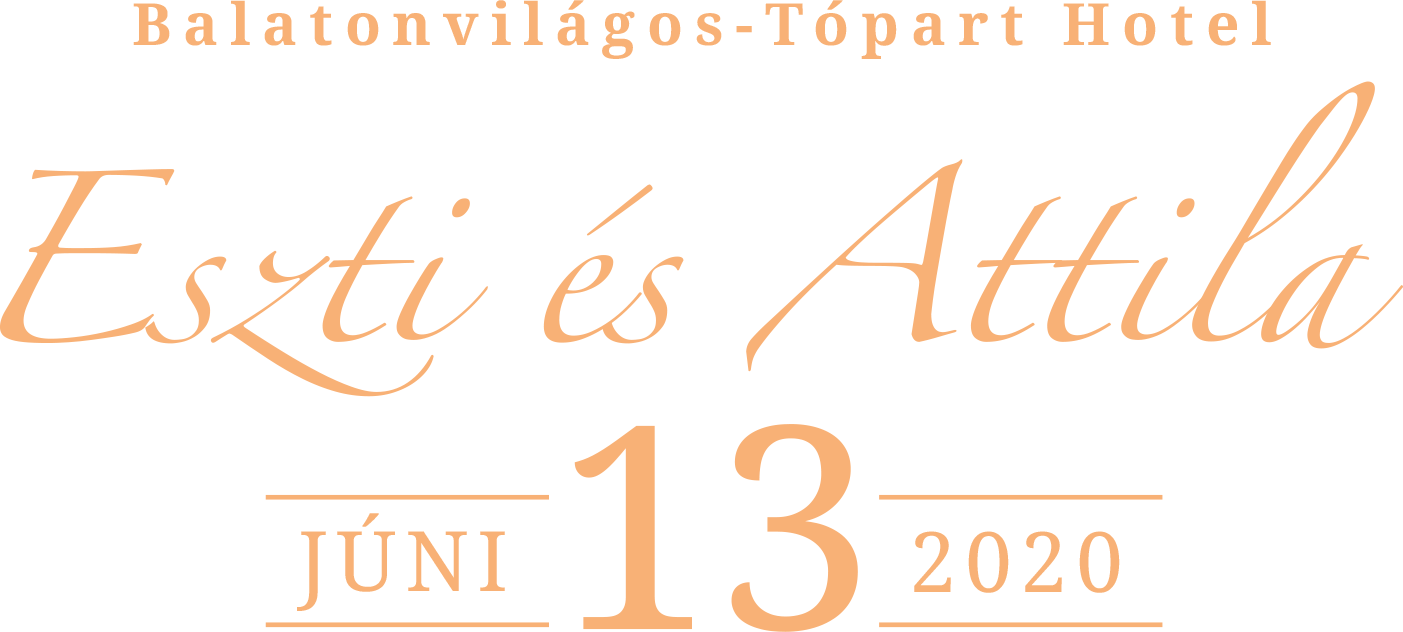
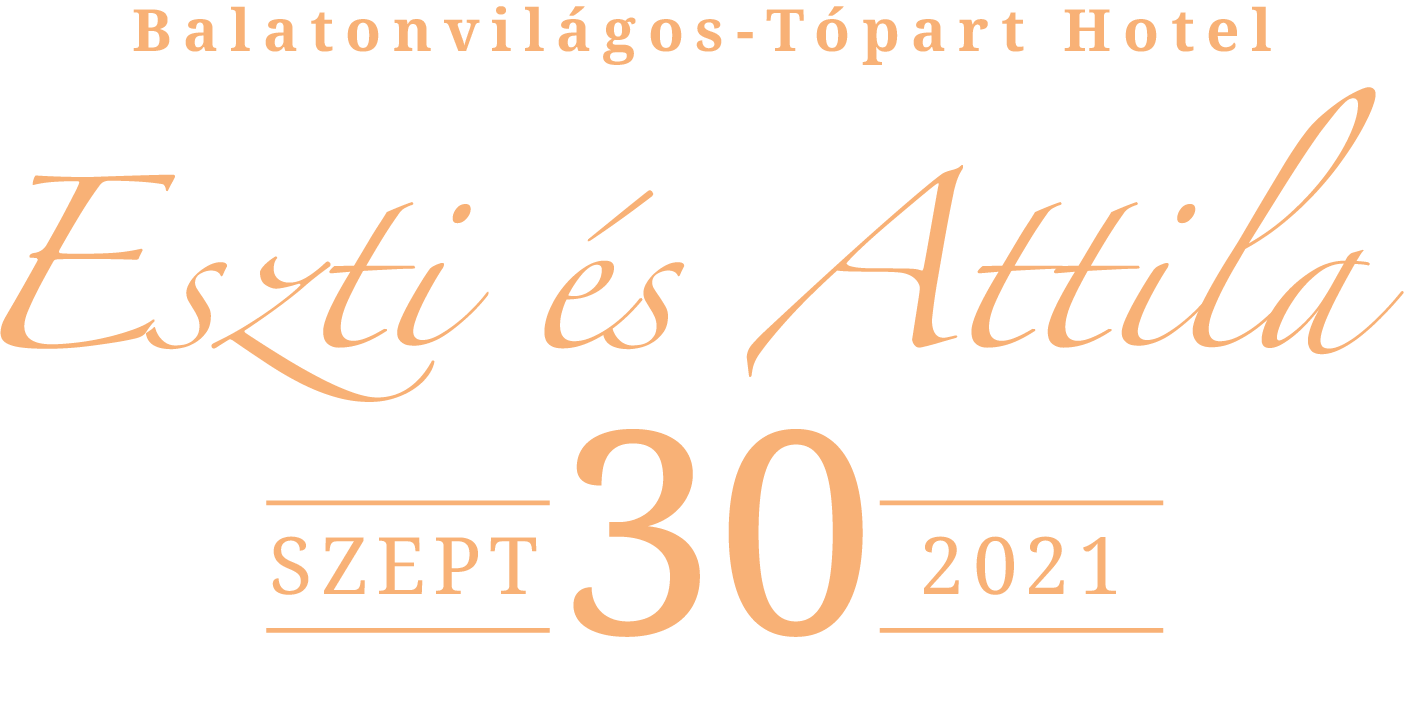
Update dates

diff --git a/index.html b/index.html
@@ -38,7 +38,7 @@
 						<div class="display-tc animate-box" data-animate-effect="fadeIn">
                             <div class="row">
                                 <div class="col-md-8 col-md-offset-2 text-center">
-                                    <img src="images/header.png" alt=" Eszter és Attila, 2020. június 13., Balatonvilágos - Tópart Hotel" class="img-responsive">
+                                    <img src="images/header.png" alt=" Eszter és Attila, 2021. szeptember 30., Balatonvilágos - Tópart Hotel" class="img-responsive">
                                 </div>
                             </div>
 							<p><div class="simply-countdown simply-countdown-one"></div></p>
@@ -56,7 +56,7 @@
 				<div class="col-md-8 col-md-offset-2 text-center fh5co-heading animate-box">
 					<h2>Szia!</h2>
                     <p>Úgy döntöttünk, hogy a következő évtizedeket mindenképpen egymás mellett kívánjuk eltölteni mint férj és feleség. 😊</p>
-                    <p>Szeretnénk, ha szerelmünk megpecsételésének Te is tanúja lennél, ezért szeretettel meghívunk június 13-án a Balaton partján tartandó esküvőnkre.</p>
+                    <p>Szeretnénk, ha szerelmünk megpecsételésének Te is tanúja lennél, ezért szeretettel meghívunk szeptember 30-án a Balaton partján tartandó esküvőnkre.</p>
                     <p>Kérünk jelezd vissza, hogy el tudsz jönni a lentebb található kérdőív kitöltésével.</p>
 				</div>
 			</div>
@@ -101,7 +101,7 @@
             <div class="row">
                 <div class="col-md-8 col-md-offset-2 text-center fh5co-heading animate-box">
                     <h2>Időpont</h2>
-                    <p><a href="resources/wedding.ics">2020. június 13., szombat 16:00</a></p>
+                    <p><a href="resources/wedding.ics">2021. szeptember 30., csütörtök 16:00</a></p>
                 </div>
             </div>
         </div>
@@ -124,7 +124,7 @@
 			<div class="row copyright">
 				<div class="col-md-12 text-center">
 					<p>
-						<small class="block">Copyright &copy; 2019 Attila Nemet.</small>
+						<small class="block">Copyright &copy; 2021 Attila Nemet.</small>
 					</p>
 				</div>
 			</div>
@@ -161,7 +161,7 @@
     <script src="js/simplyCountdown.js"></script>
 
 	<script>
-    var d = new Date(1592064000000);
+    var d = new Date(1633010400000);
 
     simplyCountdown('.simply-countdown-one', {
         year: d.getFullYear(),

diff --git a/index_en.html b/index_en.html
@@ -38,7 +38,7 @@
 						<div class="display-tc animate-box" data-animate-effect="fadeIn">
                             <div class="row">
                                 <div class="col-md-8 col-md-offset-2 text-center">
-                                    <img src="images/header.png" alt=" Eszter és Attila, 2020. június 13., Balatonvilágos - Tópart Hotel" class="img-responsive">
+                                    <img src="images/header.png" alt=" Eszter and Attila, 30 September 2021, Balatonvilágos - Tópart Hotel" class="img-responsive">
                                 </div>
                             </div>
 							<p><div class="simply-countdown simply-countdown-one"></div></p>
@@ -56,7 +56,7 @@
 				<div class="col-md-8 col-md-offset-2 text-center fh5co-heading animate-box">
 					<h2>Hi!</h2>
                     <p>We have decided to spend the upcoming decades together as husband and wife. 😊</p>
-                    <p>We would like to invite you to celebrate our love on the 13th of June at Lake Balaton in Hungary.</p>
+                    <p>We would like to invite you to celebrate our love on the 30th of September at Lake Balaton in Hungary.</p>
                     <p>Please RSVP by filling out the form below.</p>
 				</div>
 			</div>
@@ -101,7 +101,7 @@
             <div class="row">
                 <div class="col-md-8 col-md-offset-2 text-center fh5co-heading animate-box">
                     <h2>Date</h2>
-                    <p><a href="resources/wedding.ics">Saturday, 13 June 2020 at 16:00</a></p>
+                    <p><a href="resources/wedding.ics">Thursday, 30 September 2021 at 16:00</a></p>
                 </div>
             </div>
         </div>
@@ -124,7 +124,7 @@
 			<div class="row copyright">
 				<div class="col-md-12 text-center">
 					<p>
-						<small class="block">Copyright &copy; 2019 Attila Nemet.</small>
+						<small class="block">Copyright &copy; 2021 Attila Nemet.</small>
 					</p>
 				</div>
 			</div>
@@ -161,7 +161,7 @@
     <script src="js/simplyCountdown.js"></script>
 
 	<script>
-    var d = new Date(1592064000000);
+    var d = new Date(1633010400000);
 
     simplyCountdown('.simply-countdown-one', {
         year: d.getFullYear(),
